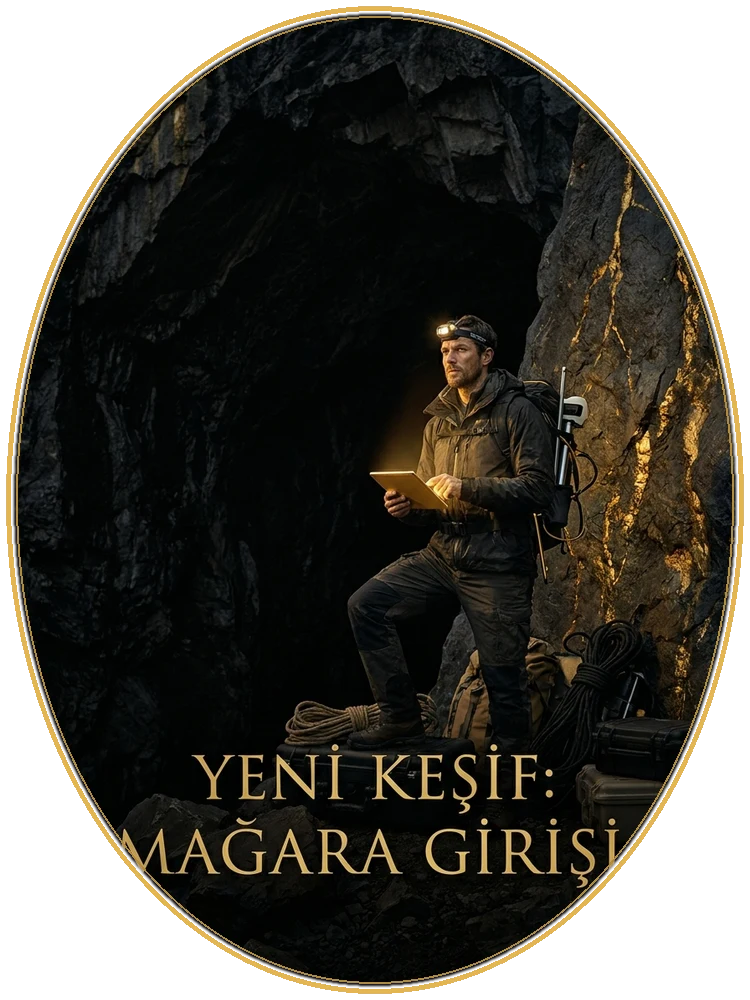
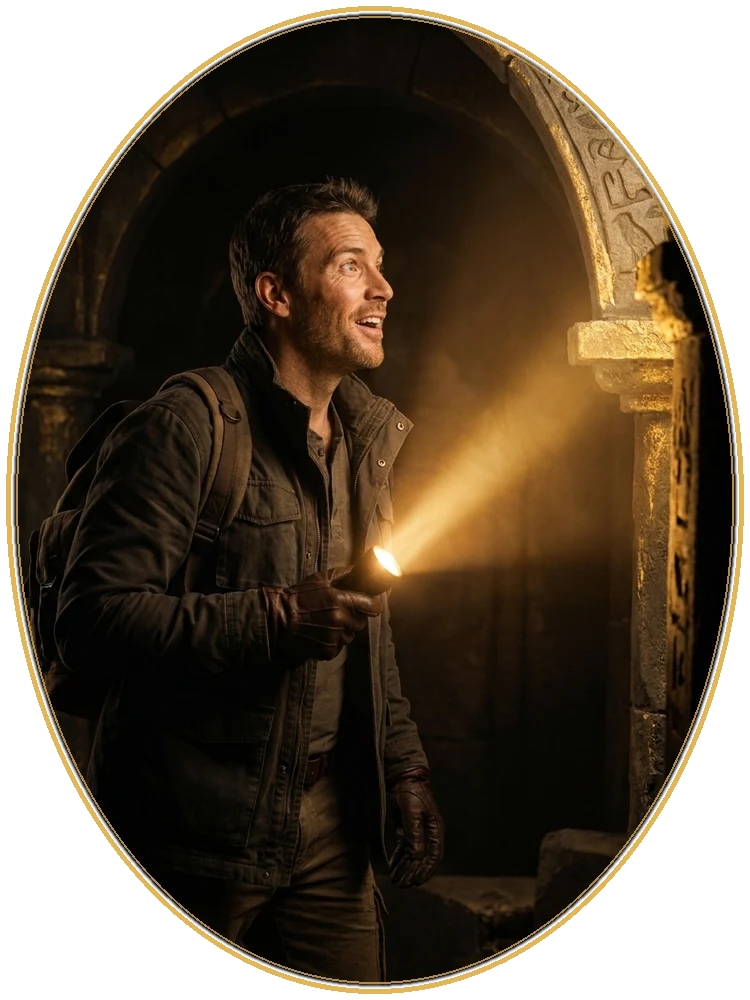
Science final revisions: remove found & wearable heart chip (291 words); new try/surgery/discoverer photos, text-free

diff --git a/src/data/flashcards.ts b/src/data/flashcards.ts
@@ -4151,7 +4151,6 @@ export const FLASHCARDS: Flashcard[] = [
   { id: 'fc-lgssc89', word: 'warn', partOfSpeech: 'word', turkishMeaning: 'uyarmak, ikaz etmek', exampleSentence: 'I must warn you about the icy roads.', category: FLASHCARD_CATEGORIES.LGS_SCIENCE },
   { id: 'fc-lgssc90', word: 'washing machine', partOfSpeech: 'word', turkishMeaning: 'çamaşır makinesi', exampleSentence: 'Our washing machine is broken.', category: FLASHCARD_CATEGORIES.LGS_SCIENCE },
   { id: 'fc-lgssc91', word: 'water screw', partOfSpeech: 'word', turkishMeaning: 'Arşimet vidası, su vidası', exampleSentence: 'Farmers use a water screw to irrigate fields.', category: FLASHCARD_CATEGORIES.LGS_SCIENCE },
-  { id: 'fc-lgssc92', word: 'wearable heart chip', partOfSpeech: 'word', turkishMeaning: 'giyilebilir kalp çipi', exampleSentence: 'The doctor recommended a wearable heart chip for him.', category: FLASHCARD_CATEGORIES.LGS_SCIENCE },
   { id: 'fc-lgssc93', word: 'weather changes', partOfSpeech: 'word', turkishMeaning: 'hava değişimleri, hava durumu değişiklikleri', exampleSentence: 'Sudden weather changes can make people sick easily.', category: FLASHCARD_CATEGORIES.LGS_SCIENCE },
   { id: 'fc-lgssc94', word: 'wheel', partOfSpeech: 'word', turkishMeaning: 'tekerlek, çark', exampleSentence: 'The front wheel of the bicycle is loose.', category: FLASHCARD_CATEGORIES.LGS_SCIENCE },
   { id: 'fc-lgssc95', word: 'win', partOfSpeech: 'word', turkishMeaning: 'kazanmak', exampleSentence: 'They hope to win the final match.', category: FLASHCARD_CATEGORIES.LGS_SCIENCE },
@@ -4290,7 +4289,6 @@ export const FLASHCARDS: Flashcard[] = [
   { id: 'fc-lgssc228', word: 'famous for', partOfSpeech: 'word', turkishMeaning: 'ile ünlü, ile tanınan', exampleSentence: 'The city is famous for its delicious food.', category: FLASHCARD_CATEGORIES.LGS_SCIENCE },
   { id: 'fc-lgssc229', word: 'field', partOfSpeech: 'word', turkishMeaning: 'tarla, alan', exampleSentence: 'They are playing football in the field.', category: FLASHCARD_CATEGORIES.LGS_SCIENCE },
   { id: 'fc-lgssc230', word: 'find', partOfSpeech: 'word', turkishMeaning: 'bulmak', exampleSentence: 'I can never find my keys in the morning.', category: FLASHCARD_CATEGORIES.LGS_SCIENCE },
-  { id: 'fc-lgssc231', word: 'found', partOfSpeech: 'word', turkishMeaning: 'buldu', exampleSentence: 'They want to found a new charity next year.', category: FLASHCARD_CATEGORIES.LGS_SCIENCE },
   { id: 'fc-lgssc232', word: 'give lecture', partOfSpeech: 'word', turkishMeaning: 'ders vermek, konferans vermek', exampleSentence: 'They will give lecture presentations on Mondays.', category: FLASHCARD_CATEGORIES.LGS_SCIENCE },
   { id: 'fc-lgssc233', word: 'give', partOfSpeech: 'word', turkishMeaning: 'vermek', exampleSentence: 'Can you give me that book, please?', category: FLASHCARD_CATEGORIES.LGS_SCIENCE },
   { id: 'fc-lgssc234', word: 'gravity', partOfSpeech: 'word', turkishMeaning: 'yerçekimi, çekim kuvveti', exampleSentence: 'Earth has stronger gravity than the moon.', category: FLASHCARD_CATEGORIES.LGS_SCIENCE },

diff --git a/src/data/readyMadeCards.ts b/src/data/readyMadeCards.ts
@@ -674,7 +674,7 @@ export const READY_MADE_CARD_WORDS = [
   'protect', 'provide', 'quill pen', 'receive', 'remote control',
   'science', 'scientist', 'search', 'soil', 'telescope',
   'test tube', 'theory of relativity', 'transportation', 'treat', 'treatment',
-  'vaccination', 'warn', 'washing machine', 'water screw', 'wearable heart chip',
+  'vaccination', 'warn', 'washing machine', 'water screw', 
   'weather changes', 'wheel', 'x-ray', 'alien', 'allow',
   'axis', 'branch', 'calculator', 'condition', 'continent',
   'die', 'do an experiment', 'education', 'explosion', 'facts',
